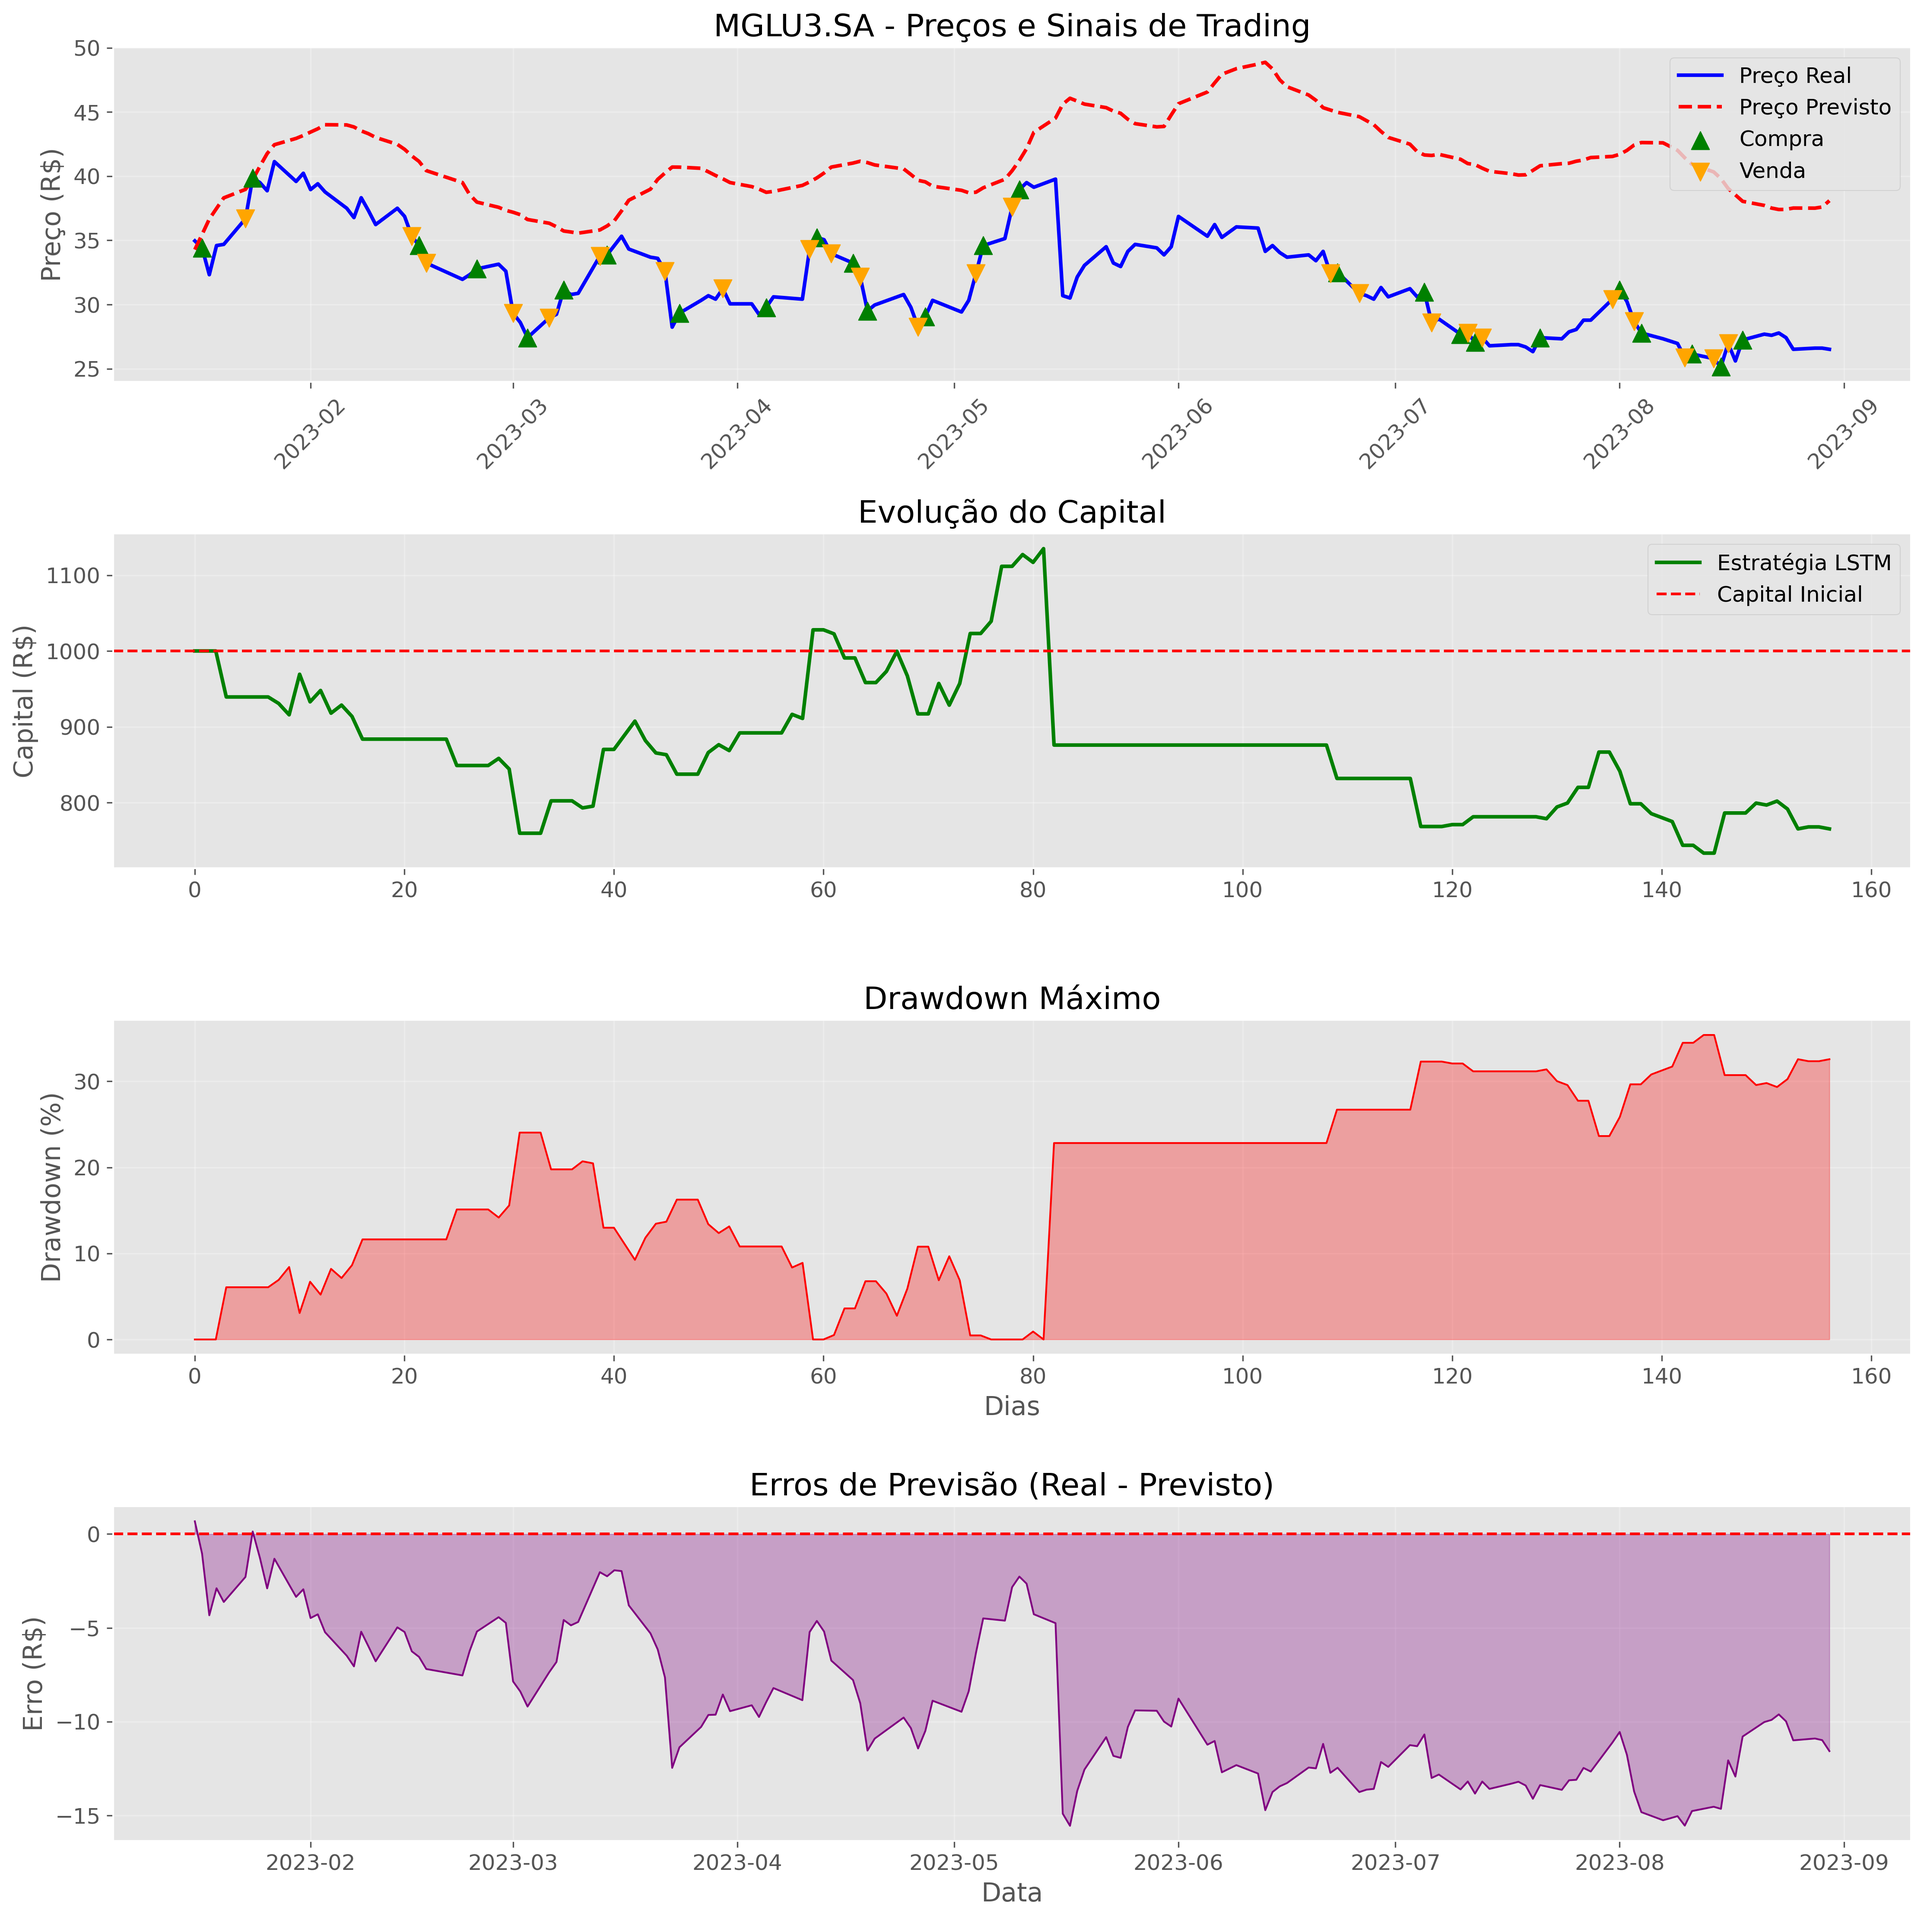
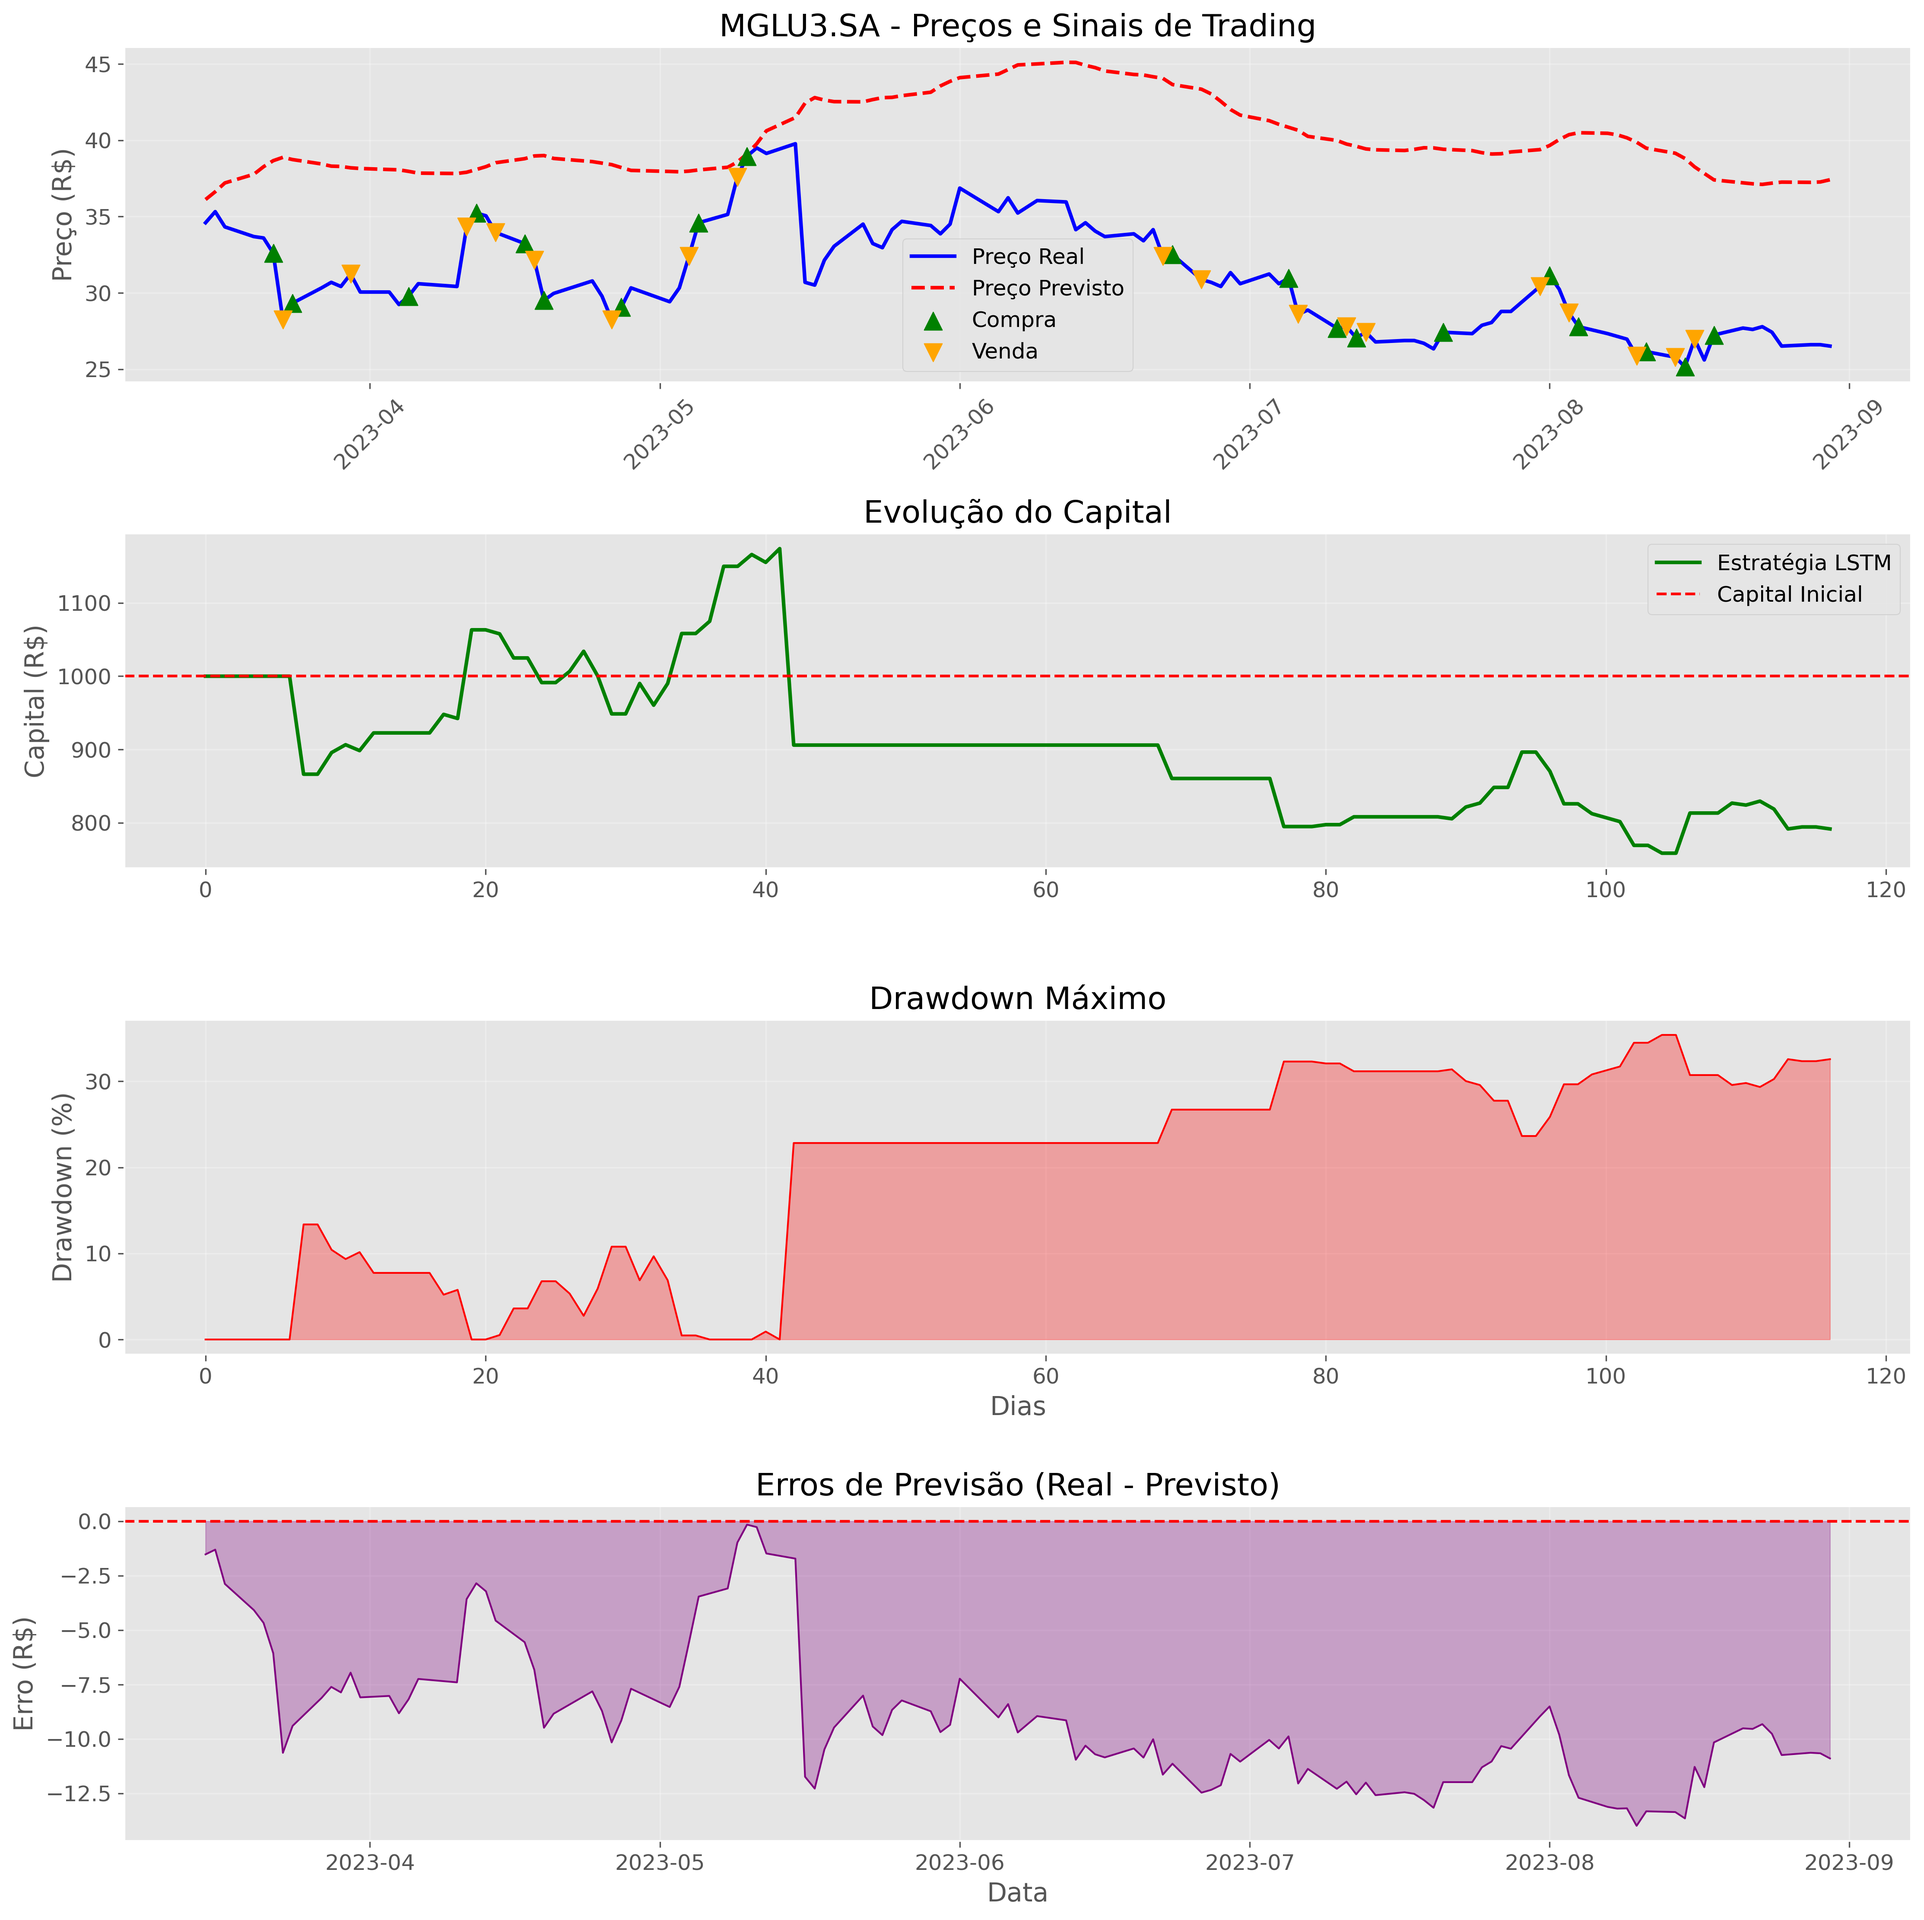
novo requirements

diff --git a/LSTM/lstmtrade.py b/LSTM/lstmtrade.py
@@ -27,7 +27,7 @@ TEST_END = "2023-08-31"
 INITIAL_CAPITAL = 1000.00
 #considerar valor da taxas
 #energia, pretoleo, realimentar o agente.
-LOOKBACK = 10  # 
+LOOKBACK = 50  # 
 EPOCHS = 80
 BATCH_SIZE = 16  # 
 N_FEATURES = 10  # 
